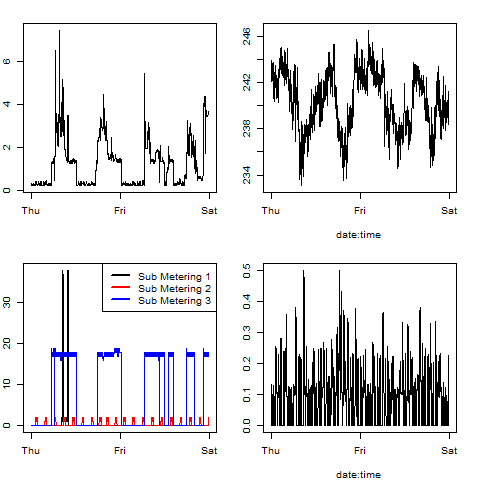
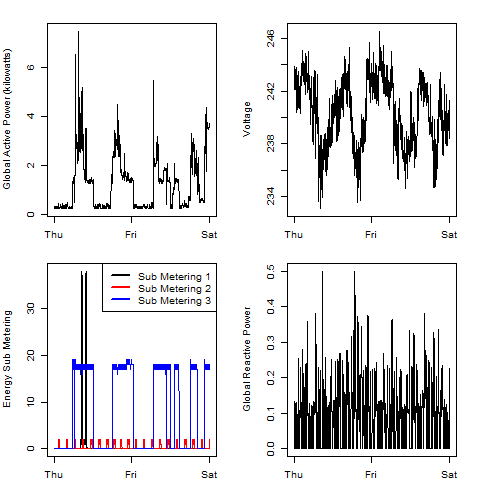
updated README, updated plot4.R

diff --git a/README.md b/README.md
@@ -27,13 +27,13 @@ This is not a conservative figure, as it will have to load into contiguous RAM, 
 <ol>
 <li><b>Date</b>: Date in format dd/mm/yyyy </li>
 <li><b>Time</b>: time in format hh:mm:ss </li>
-<li><b>Global.active.power</b>: household global minute-averaged active power (in kilowatt) </li>
-<li><b>Global.reactive.power</b>: household global minute-averaged reactive power (in kilowatt) </li>
+<li><b>Global Active Power</b>: household global minute-averaged active power (in kilowatt) </li>
+<li><b>Global Reactive Power</b>: household global minute-averaged reactive power (in kilowatt) </li>
 <li><b>Voltage</b>: minute-averaged voltage (in volt) </li>
-<li><b>Global.intensity</b>: household global minute-averaged current intensity (in ampere) </li>
-<li><b>Sub.metering.1</b>: energy sub-metering No. 1 (in watt-hour of active energy). It corresponds to the kitchen, containing mainly a dishwasher, an oven and a microwave (hot plates are not electric but gas powered). </li>
-<li><b>Sub.metering.2</b>: energy sub-metering No. 2 (in watt-hour of active energy). It corresponds to the laundry room, containing a washing-machine, a tumble-drier, a refrigerator and a light. </li>
-<li><b>Sub.metering.3</b>: energy sub-metering No. 3 (in watt-hour of active energy). It corresponds to an electric water-heater and an air-conditioner.</li>
+<li><b>Global Intensity</b>: household global minute-averaged current intensity (in ampere) </li>
+<li><b>Sub Metering 1</b>: energy sub-metering No. 1 (in watt-hour of active energy). It corresponds to the kitchen, containing mainly a dishwasher, an oven and a microwave (hot plates are not electric but gas powered). </li>
+<li><b>Sub Metering 2</b>: energy sub-metering No. 2 (in watt-hour of active energy). It corresponds to the laundry room, containing a washing-machine, a tumble-drier, a refrigerator and a light. </li>
+<li><b>Sub Metering 3</b>: energy sub-metering No. 3 (in watt-hour of active energy). It corresponds to an electric water-heater and an air-conditioner.</li>
 <li><b>DT</b>: Concatenation of Date and Time variables, converted to a POSIX format.  This variable not in original dataset.</li>
 </ol>
 
@@ -50,17 +50,24 @@ The four plots are shown below.
 
 ### Plot 1
 
+`Global Active Power` frequency distribution.
 
 ![plot1](./plot1.png) 
 
-
 ### Plot 2
 
+`Global Active Power` as a function of time.
 
+![plot2](./plot2.png) 
 
 ### Plot 3
 
+`Sub Metering x` as a function of time for all three Sub Metering variables.
 
+![plot3](./plot3.png) 
 
 ### Plot 4
 
+Composite of Plots 2 and 3 plus `Voltage` and `Global Reactive Power`as a function of time.
+
+![plot4](./plot4.png)
